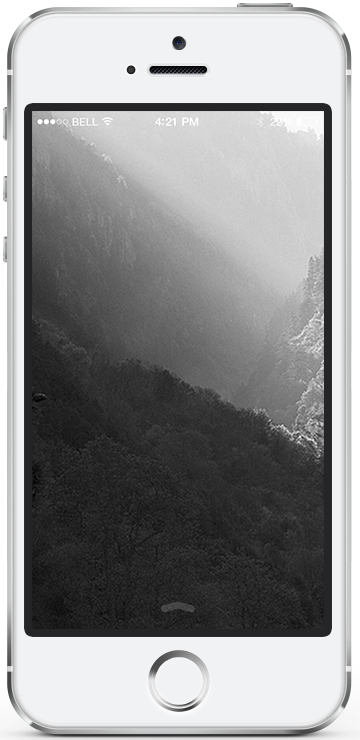
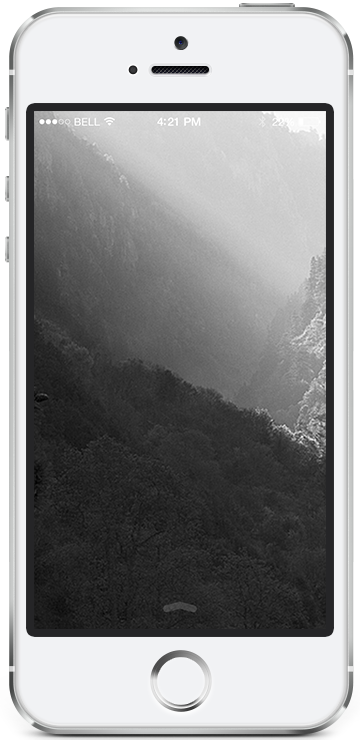
Styled header and added product image to feature section

diff --git a/2 - Focus/index.html b/2 - Focus/index.html
@@ -1,1 +1,1 @@
-<!DOCTYPE html><html lang="en"><head><meta charset="utf-8"><meta name="author" content="John William Domingo"><meta name="viewport" content="width=device-width, initial-scale=1"><meta http-equiv="X-UA-Compatible" content="IE=edge"><title>Focus Mobile App</title><meta name="description" content="30 Day Web Development Challenge - Week 2 | is a trendy landing page for a mobile app or product."><link rel="stylesheet" type="text/css" href="css/bootstrap/css/bootstrap.min.css"><link rel="stylesheet" type="text/css" href="css/font-awesome/css/font-awesome.min.css"><link rel="stylesheet" type="text/css" href="css/style.css"></head><body><header class="centered-text"><span class="logo"></span><h1>Focus</h1><h2>A landing page for your app with focus</h2></header><section id="feature"><div class="container"><div class="row"><div class="col-xs-12 col-sm-3 col-sm-offset-1"><div class="feature1"><h3>Focus Points</h3><p>Cupcake ipsum dolor sit amet gummies icing liquorice chocolate bar. Muffin powder jelly-o brownie icing.</p><svg class="ft1"></svg></div></div><div class="col-xs-12 col-sm-3 col-sm-offset-4"><div class="feature2"><h3>Exposure</h3><p>Cupcake ipsum dolor sit. Amet powder pudding danish. Soufflé jelly beans tart icing pudding.</p><svg class="ft2"></svg></div></div></div><div class="clearfix"></div><div class="row"><div class="col-xs-12 col-sm-3 col-sm-offset-1"><div class="feature3"><h3>Presets</h3><p>Cupcake ipsum dolor sit amet lemon drops muffin. Icing halvah candy canes oat cake.</p><svg class="ft3"></svg></div></div><div class="col-xs-12 col-sm-3 col-sm-offset-4"><div class="feature4"><h3>Community</h3><p>Cupcake ipsum dolor sit amet dessert carrot cake. Caramels toffee liquorice.</p><svg class="ft4"></svg></div></div></div></div></section><section id="call-to-action"><div class="container"><div class="row"><div class="col-xs-5 col-xs-offset-1"><h3>Get The App Today</h3><p>Cupcake ipsum dolor sit amet croissant. Sweet apple pie ice cream icing. Caramels soufflé chupa chups cheesecake sesame snaps. Sweet dessert bear claw jelly jelly-o muffin powder dragée.</p><ul class="list-inline"><li><i class="fa fa-apple"></i></li><li><i class="fa fa-android"></i></li><li><i class="fa fa-windows"></i></li></ul></div><div class="col-xs-5"><iframe src="https://player.vimeo.com/video/35798558" width="100%" height="auto" frameborder="0" webkitallowfullscreen="true" mozallowfullscreen="true" allowfullscreen="true"></iframe></div></div></div></section><section id="testimonials"><div class="container-fluid"><div class="row no-pad"><div class="col-xs-3 col-sm-6 col-md-12"></div><div class="col-xs-3 col-sm-6 col-md-12"></div><div class="col-xs-3 col-sm-6 col-md-12"></div><div class="col-xs-3 col-sm-6 col-md-12"></div><div class="col-sm-6 col-md-12"></div><div class="col-sm-6 col-md-12"></div><div class="col-md-12"></div><div class="col-md-12"></div><div class="col-md-12"></div><div class="col-md-12"></div><div class="col-md-12"></div><div class="col-md-12"></div></div><div class="row no-pad"><div class="col-xs-3 col-sm-6 col-md-12"></div><div class="col-xs-3 col-sm-6 col-md-12"></div><div class="col-xs-3 col-sm-6 col-md-12"></div><div class="col-xs-3 col-sm-6 col-md-12"></div><div class="col-sm-6 col-md-12"></div><div class="col-sm-6 col-md-12"></div><div class="col-md-12"></div><div class="col-md-12"></div><div class="col-md-12"></div><div class="col-md-12"></div><div class="col-md-12"></div><div class="col-md-12"></div></div><div class="row no-pad hidden-xs"><div class="col-sm-6 col-md-12"></div><div class="col-sm-6 col-md-12"></div><div class="col-sm-6 col-md-12"></div><div class="col-sm-6 col-md-12"></div><div class="col-sm-6 col-md-12"></div><div class="col-sm-6 col-md-12"></div><div class="col-md-12"></div><div class="col-md-12"></div><div class="col-md-12"></div><div class="col-md-12"></div><div class="col-md-12"></div><div class="col-md-12"></div></div><div class="row no-pad hidden-xs hidden-sm"><div class="col-md-12"></div><div class="col-md-12"></div><div class="col-md-12"></div><div class="col-md-12"></div><div class="col-md-12"></div><div class="col-md-12"></div><div class="col-md-12"></div><div class="col-md-12"></div><div class="col-md-12"></div><div class="col-md-12"></div><div class="col-md-12"></div><div class="col-md-12"></div></div></div></section><section id="social"><div class="container centered-text"><h3>Say Hi &amp; Get in Touch</h3><p>Cupcake ipsum dolor sit amet chocolate bar danish.</p><ul class="list-inline"><li><i class="fa fa-twitter"></i></li><li><i class="fa fa-facebook"></i></li><li><i class="fa fa-pinterest"></i></li><li><i class="fa fa-google-plus"></i></li><li><i class="fa fa-linkedin"></i></li><li><i class="fa fa-youtube"></i></li></ul></div></section><footer><nav role="navigation" class="navbar navbar-default"><ul class="nav navbar-nav"><li><a href="#">Contact</a></li><li><a href="#">Download</a></li><li><a href="#">Press</a></li><li><a href="#">Email</a></li><li><a href="#">Support</a></li><li><a href="#">Privacy Policy</a></li></ul></nav></footer></body></html>
+<!DOCTYPE html><html lang="en"><head><meta charset="utf-8"><meta name="author" content="John William Domingo"><meta name="viewport" content="width=device-width, initial-scale=1"><meta http-equiv="X-UA-Compatible" content="IE=edge"><title>Focus Mobile App</title><meta name="description" content="30 Day Web Development Challenge - Week 2 | is a trendy landing page for a mobile app or product."><link rel="stylesheet" type="text/css" href="css/bootstrap/css/bootstrap.min.css"><link rel="stylesheet" type="text/css" href="css/font-awesome/css/font-awesome.min.css"><link rel="stylesheet" type="text/css" href="css/style.css"></head><body><header class="centered-text"><div class="title"><img src="assets/logo.png" alt="Focus Logo" class="logo"><h1>Focus</h1><h2>A landing page for your app with focus</h2><a href="#product" alt="Product Section"><img src="assets/arrow.png" alt="Down Arrow" class="arrow"></a></div></header><section id="feature"><div id="product"></div><div class="container"><div class="row"><div class="col-xs-12 col-sm-3 col-sm-offset-1"><div class="feature1"><h3>Focus Points</h3><p>Cupcake ipsum dolor sit amet gummies icing liquorice chocolate bar. Muffin powder jelly-o brownie icing.</p><svg class="ft1"></svg></div></div><div class="col-xs-12 col-sm-3 col-sm-offset-4"><div class="feature2"><h3>Exposure</h3><p>Cupcake ipsum dolor sit. Amet powder pudding danish. Soufflé jelly beans tart icing pudding.</p><svg class="ft2"></svg></div></div></div><div class="clearfix"></div><div class="row"><div class="col-xs-12 col-sm-3 col-sm-offset-1"><div class="feature3"><h3>Presets</h3><p>Cupcake ipsum dolor sit amet lemon drops muffin. Icing halvah candy canes oat cake.</p><svg class="ft3"></svg></div></div><div class="col-xs-12 col-sm-3 col-sm-offset-4"><div class="feature4"><h3>Community</h3><p>Cupcake ipsum dolor sit amet dessert carrot cake. Caramels toffee liquorice.</p><svg class="ft4"></svg></div></div></div></div></section><section id="call-to-action"><div class="container"><div class="row"><div class="col-xs-5 col-xs-offset-1"><h3>Get The App Today</h3><p>Cupcake ipsum dolor sit amet croissant. Sweet apple pie ice cream icing. Caramels soufflé chupa chups cheesecake sesame snaps. Sweet dessert bear claw jelly jelly-o muffin powder dragée.</p><ul class="list-inline"><li><i class="fa fa-apple"></i></li><li><i class="fa fa-android"></i></li><li><i class="fa fa-windows"></i></li></ul></div><div class="col-xs-5"><iframe src="https://player.vimeo.com/video/35798558" width="100%" height="auto" frameborder="0" webkitallowfullscreen="true" mozallowfullscreen="true" allowfullscreen="true"></iframe></div></div></div></section><section id="testimonials"><div class="container-fluid"><div class="row no-pad"><div class="col-xs-3 col-sm-6 col-md-12"></div><div class="col-xs-3 col-sm-6 col-md-12"></div><div class="col-xs-3 col-sm-6 col-md-12"></div><div class="col-xs-3 col-sm-6 col-md-12"></div><div class="col-sm-6 col-md-12"></div><div class="col-sm-6 col-md-12"></div><div class="col-md-12"></div><div class="col-md-12"></div><div class="col-md-12"></div><div class="col-md-12"></div><div class="col-md-12"></div><div class="col-md-12"></div></div><div class="row no-pad"><div class="col-xs-3 col-sm-6 col-md-12"></div><div class="col-xs-3 col-sm-6 col-md-12"></div><div class="col-xs-3 col-sm-6 col-md-12"></div><div class="col-xs-3 col-sm-6 col-md-12"></div><div class="col-sm-6 col-md-12"></div><div class="col-sm-6 col-md-12"></div><div class="col-md-12"></div><div class="col-md-12"></div><div class="col-md-12"></div><div class="col-md-12"></div><div class="col-md-12"></div><div class="col-md-12"></div></div><div class="row no-pad hidden-xs"><div class="col-sm-6 col-md-12"></div><div class="col-sm-6 col-md-12"></div><div class="col-sm-6 col-md-12"></div><div class="col-sm-6 col-md-12"></div><div class="col-sm-6 col-md-12"></div><div class="col-sm-6 col-md-12"></div><div class="col-md-12"></div><div class="col-md-12"></div><div class="col-md-12"></div><div class="col-md-12"></div><div class="col-md-12"></div><div class="col-md-12"></div></div><div class="row no-pad hidden-xs hidden-sm"><div class="col-md-12"></div><div class="col-md-12"></div><div class="col-md-12"></div><div class="col-md-12"></div><div class="col-md-12"></div><div class="col-md-12"></div><div class="col-md-12"></div><div class="col-md-12"></div><div class="col-md-12"></div><div class="col-md-12"></div><div class="col-md-12"></div><div class="col-md-12"></div></div></div></section><section id="social"><div class="container centered-text"><h3>Say Hi &amp; Get in Touch</h3><p>Cupcake ipsum dolor sit amet chocolate bar danish.</p><ul class="list-inline"><li><i class="fa fa-twitter"></i></li><li><i class="fa fa-facebook"></i></li><li><i class="fa fa-pinterest"></i></li><li><i class="fa fa-google-plus"></i></li><li><i class="fa fa-linkedin"></i></li><li><i class="fa fa-youtube"></i></li></ul></div></section><footer><nav role="navigation" class="navbar navbar-default"><ul class="nav navbar-nav"><li><a href="#">Contact</a></li><li><a href="#">Download</a></li><li><a href="#">Press</a></li><li><a href="#">Email</a></li><li><a href="#">Support</a></li><li><a href="#">Privacy Policy</a></li></ul></nav></footer></body></html>

diff --git a/2 - Focus/css/style.sass b/2 - Focus/css/style.sass
@@ -3,10 +3,7 @@
 // Typefaces
 @import url(http://fonts.googleapis.com/css?family=Pacifico)
 @import url(http://fonts.googleapis.com/css?family=Raleway:400,600,300)
-@import url(http://fonts.googleapis.com/css?family=Roboto:400,700)
 
-
-//font-family: 'Roboto', sans-serif
 //font-family: 'Raleway', sans-serif
 
 // Color Pallete
@@ -15,3 +12,92 @@ $secondary: #c5c5c5
 $accent: #222
 $bkg-color: #f4f4f4
 $txt-color: #848484
+
+////////////////
+// TYPOGRAPHY //
+////////////////
+.centered-text
+  text-align: center
+  div
+    display: inline-block
+
+.centered-div
+  .container
+    div
+      margin: 0 auto
+
+h2, h3, h4, h5, h6
+  font-family: 'Helvetica Neue', Helvetica, Arial, sans-serif
+  font-weight: 200
+
+
+header
+  .title
+    h1
+      display: inline
+      font-family: 'Pacifico', sans-serif
+      font-size: 4.2em
+      line-height: 1.2
+      padding-left: 20px
+    h2
+      padding-top: 20px
+
+/////////////////////
+// BOOTSTRAP FIXES //
+/////////////////////
+
+////////////
+// HEADER //
+////////////
+
+header
+  position: relative
+  height: 700px
+  background:
+    image: url('../assets/bg-lg.png')
+    size: contain
+    position: top center
+    repeat: no-repeat
+    attachment: fixed
+
+  .title
+    margin-top: 115px
+
+    img.logo
+      vertical-align: top
+
+    img.arrow
+      vertical-align: bottom
+      margin-top: 40px
+
+/////////////
+// FEATURE //
+/////////////
+
+section#feature
+  #product
+    +size(360px 770px)
+    position: absolute
+    top: 370px
+    left: 50%
+    margin-left: -180px
+    background:
+      image: url('../assets/iphone.png')
+      position: bottom center
+      repeat: no-repeat
+
+////////////////////
+// CALL TO ACTION //
+////////////////////
+
+//////////////////
+// TESTIMONIALS //
+//////////////////
+
+////////////
+// SOCIAL //
+////////////
+
+////////////
+// FOOTER //
+////////////

diff --git a/2 - Focus/css/style.css b/2 - Focus/css/style.css
@@ -1,5 +1,51 @@
 @import url(http://fonts.googleapis.com/css?family=Pacifico);
 @import url(http://fonts.googleapis.com/css?family=Raleway:400,600,300);
-@import url(http://fonts.googleapis.com/css?family=Roboto:400,700);
+.centered-text {
+  text-align: center; }
+  .centered-text div {
+    display: inline-block; }
+
+.centered-div .container div {
+  margin: 0 auto; }
+
+h2, h3, h4, h5, h6 {
+  font-family: "Helvetica Neue", Helvetica, Arial, sans-serif;
+  font-weight: 200; }
+
+header .title h1 {
+  display: inline;
+  font-family: "Pacifico", sans-serif;
+  font-size: 4.2em;
+  line-height: 1.2;
+  padding-left: 20px; }
+header .title h2 {
+  padding-top: 20px; }
+
+header {
+  position: relative;
+  height: 700px;
+  background-image: url("../assets/bg-lg.png");
+  background-size: contain;
+  background-position: top center;
+  background-repeat: no-repeat;
+  background-attachment: fixed; }
+  header .title {
+    margin-top: 115px; }
+    header .title img.logo {
+      vertical-align: top; }
+    header .title img.arrow {
+      vertical-align: bottom;
+      margin-top: 40px; }
+
+section#feature #product {
+  height: 770px;
+  width: 360px;
+  position: absolute;
+  top: 370px;
+  left: 50%;
+  margin-left: -180px;
+  background-image: url("../assets/iphone.png");
+  background-position: bottom center;
+  background-repeat: no-repeat; }
 
 /*# sourceMappingURL=style.css.map */
